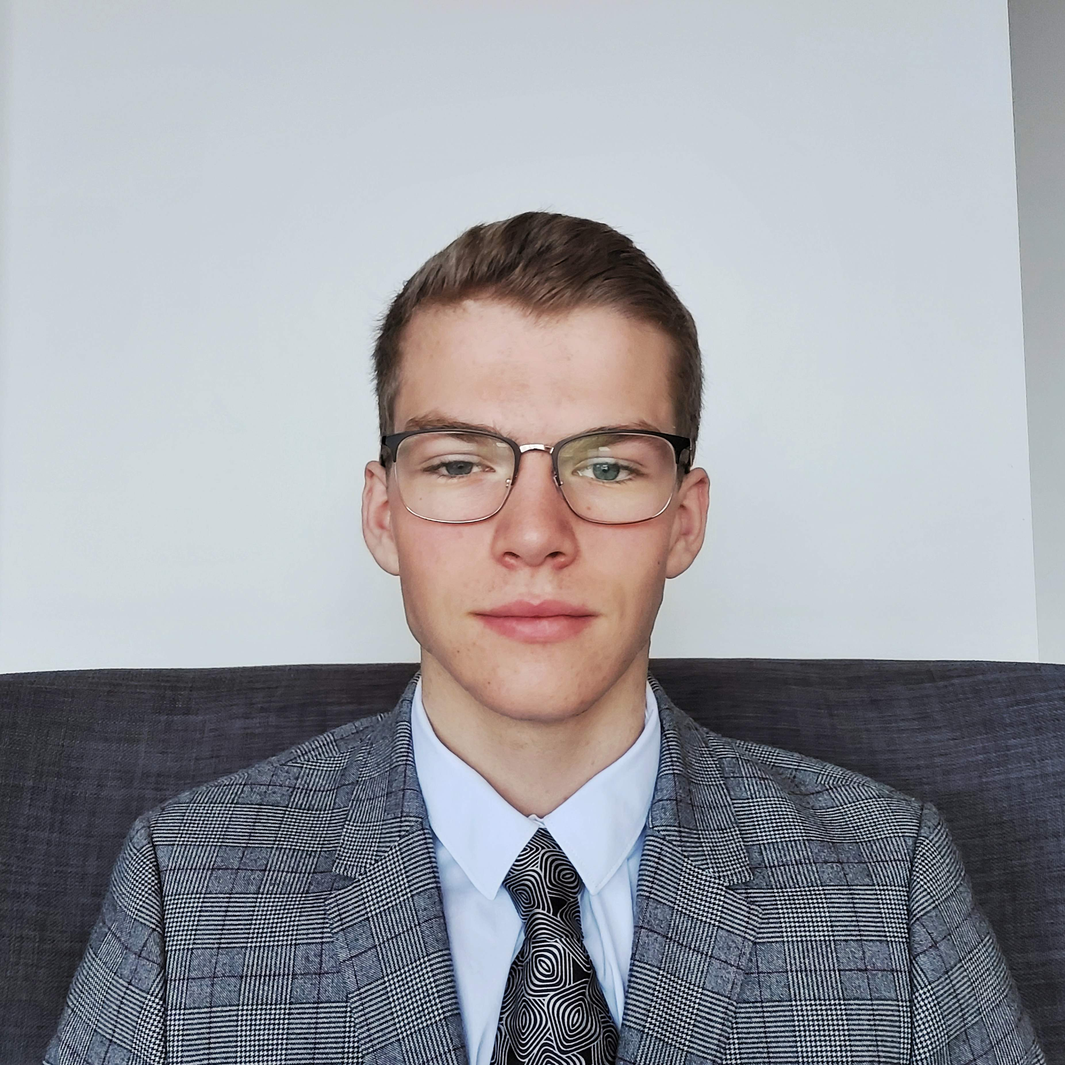
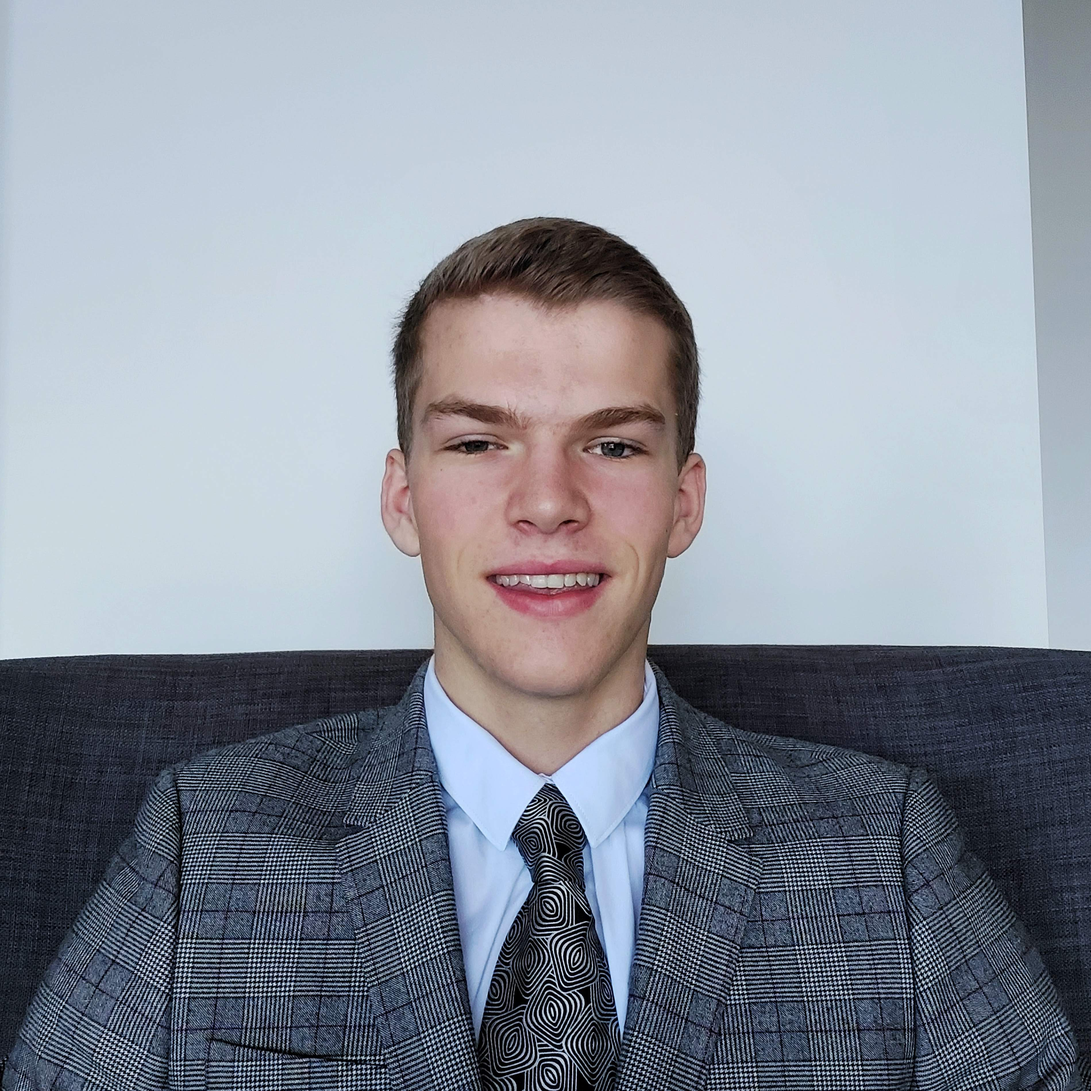
new pic and links now work

diff --git a/src/App.js b/src/App.js
@@ -30,7 +30,7 @@ function Nav(){
   })
   return(
   <div class = "nav">
-    <div class ="logo"> <a href = "#">CONNOR {(logoOn) ? <span href = "#">GUARD</span>: null} </a> </div> 
+    <div class ="logo"> <a href = "#home">CONNOR {(logoOn) ? <span href = "#">GUARD</span>: null} </a> </div> 
     <div class = "content"> 
       <a class = "toggle-button" onClick={() => {setToggle(!isToggleOn)}}>
         <span class ="bar"></span>
@@ -65,8 +65,6 @@ function Page(props){
       <div id = "contact" class = "contact"> 
         <Contact />
       </div>  
-      <div id = "footer" class = "page footer">      
-      </div> 
     </div>
   )
 }
@@ -88,9 +86,9 @@ function Contact(){
 function Socials(){
   return(
   <div class = "Socials">
-    <img class = "icon linkedin" src="./linkedin.png" height = "50" widh="50"/>
-    <img class = "icon github" src="./github.png" height = "50" widh="50"/>
-    <img class = "icon email" src="./email.png" height = "31" widh="31"/>
+     <a href = "https://www.linkedin.com/in/connor-guard/"><img class = "icon linkedin" src="./linkedin.png" height = "50" widh="50"></img></a>
+    <a href = "https://github.com/ConnorGuard"><img class = "icon github" src="./github.png" height = "50" widh="50"></img></a>
+    <a href = "mailto: connor.guard@gmail.com"><img class = "icon email" src="./email.png" height = "31" widh="31"></img></a>
   </div>
   );
 }
@@ -98,7 +96,7 @@ function Socials(){
 function Intro(){
   return(
     <div class ="homePage">
-      <h2>I am a<br/>Software<br/> Developer</h2>
+      <h2>Software<br/> Developer<br/>at QUT</h2>
       <img class = "image connor" src="./connor.jpeg" ></img>
     </div>
   );

diff --git a/src/css/App.css b/src/css/App.css
@@ -4,7 +4,9 @@
 @import "home.css";
 html{
   scroll-behavior: smooth;
+  overflow: hidden;
 }
+
 .App {
   font-family: 'Roboto', sans-serif;
   text-align: center;
@@ -21,23 +23,27 @@ html{
   height: 150vh;
   background-color:#fcebe0;
   scroll-snap-align: start;
+  scroll-snap-align: end;
 }
 
 .page .projects{
   height: 150vh;
   background-color:rgb(123, 202, 193);
   scroll-snap-align: start;
+  scroll-snap-align: end;
 }
 
 .page .about{
   height: 150vh;
   background-color:rgb(255, 235, 224);
   scroll-snap-align: start;
+  scroll-snap-align: end;
 }
 .page .contact{
   height: 150vh;
   background-color:rgb(123, 202, 193);
   scroll-snap-align: start;
+  scroll-snap-align: end;
 }
 .page .footer{
   background-color:rgb(157, 206, 200);
@@ -71,7 +77,7 @@ html{
   margin-left: 2rem;
 }
 .logo a:hover{
-  animation:wavey 2s infinite linear;
+  transform: scale(1.1);
 }
 
 @keyframes wavey {
